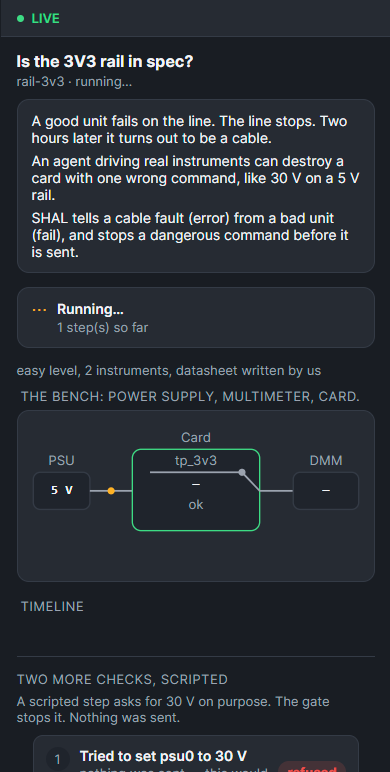
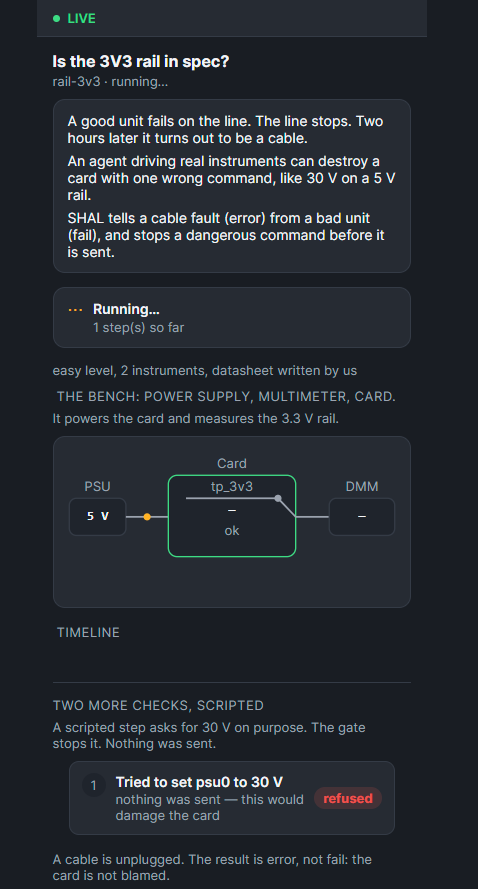
arena ui: retake all screenshots at a real 390px, full page (#427)
Every file in ui/screenshots/ is from the final code, real 390px
viewport, full page (live/correct/protection/destroyed, plus a new
relay-rail overheat run showing all 4 instruments and the closing
sentence). Also fixes a cosmetic bug caught while capturing: the
TEMP box showed the raw unrounded float ("90.00114442664224") and
overflowed the box -- the bench display now rounds to 1 decimal.

Claude-Session: https://claude.ai/code/session_017m3bQhKaHmqh7pWvUpGx73

diff --git a/arena/src/shal_arena/ui/page.py b/arena/src/shal_arena/ui/page.py
@@ -343,7 +343,7 @@ function renderBench(payload) {
     const temp = payload.instruments.find(i => i.address.startsWith("temp"));
     const tReading = temp ? latestReading(payload.timeline, temp.address) : null;
     document.getElementById("temp-value").textContent = tReading
-      ? `${tReading.detail.value}°C` : "—";
+      ? `${Math.round(tReading.detail.value * 10) / 10}°C` : "—";
   }
 }
 
